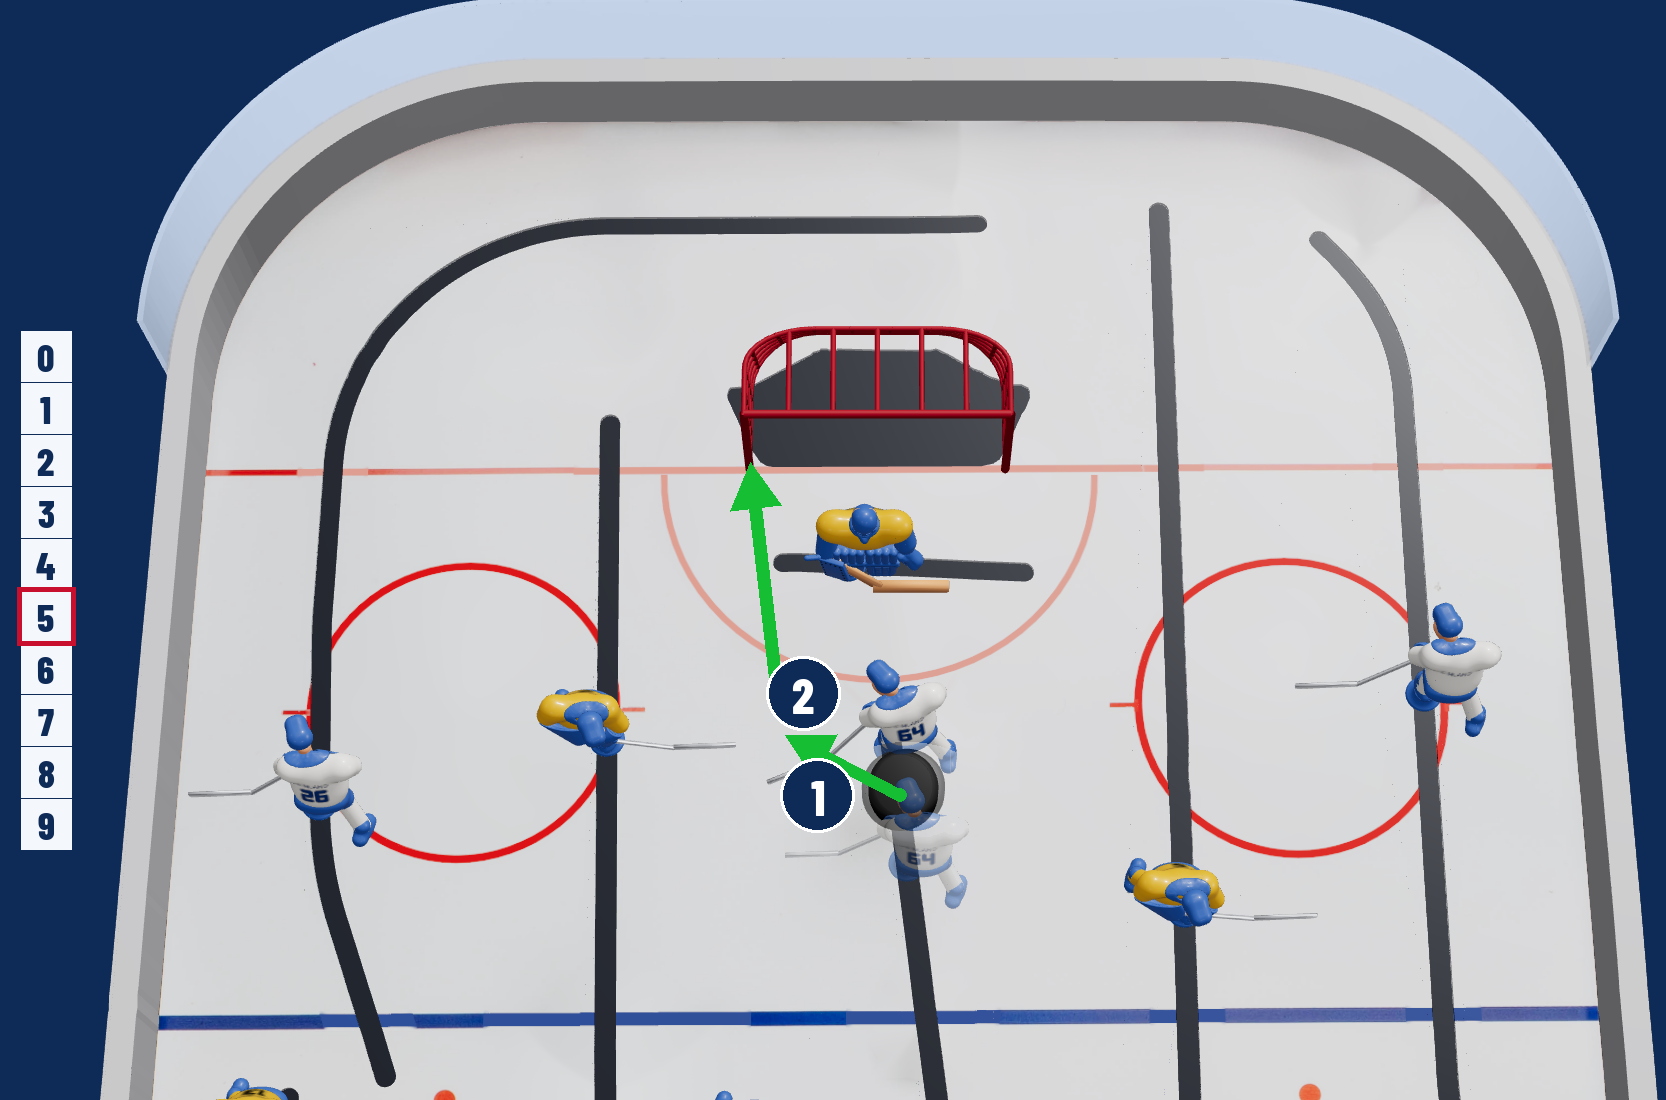
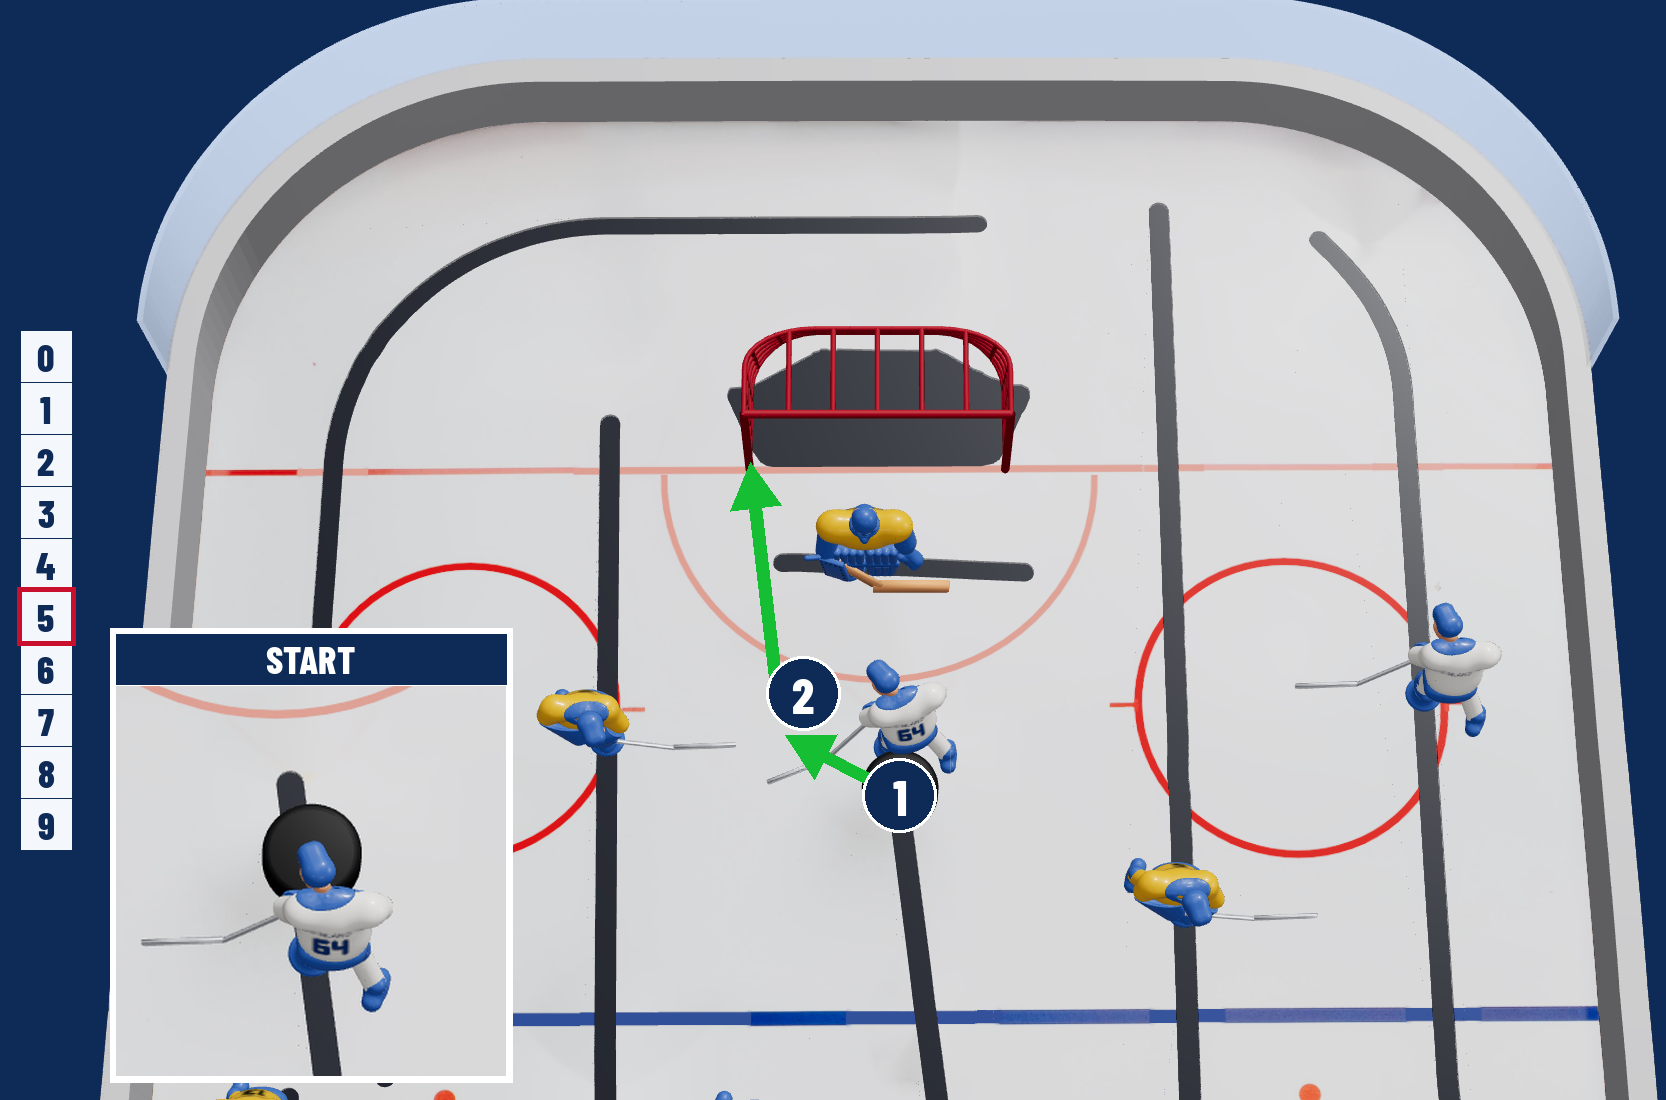
Move pictures: fakie start position as a START inset instead of a blended ghost
Claude-Session: https://claude.ai/code/session_01BNTiwfvDFK1dJGset6TA2u

Changed region(s): [[0.0624, 0.5564, 0.3121, 0.9891], [0.4682, 0.6491, 0.593, 0.8345]]

diff --git a/scripts/move-pictures/build.py b/scripts/move-pictures/build.py
@@ -374,16 +374,14 @@ def draw(spec, geo):
     W, H = base.width + MARGIN_L, base.height
     im = Image.new("RGB", (W, H), NAVY)
     im.paste(base, (MARGIN_L, 0))
-    if "ghost" in geo:
+    inset = None
+    if "ghost" in geo:  # the start position as a close-up inset (a blended ghost was hard to read, user 2026-10-14)
         gb = Image.open(OUT / f"{spec['id']}-ghost-base.png").convert("RGB")
         gx, gy = to_px(geo, geo["ghost"]["figure_mm"])
-        gpx = to_px(geo, geo["ghost"]["puck_mm"])
-        rad = 1.15 * max(math.dist((gx, gy), gpx), 1) + 40  # the figure and its puck, not the figure at the trick
-        mask = Image.new("L", gb.size, 0)
-        ImageDraw.Draw(mask).ellipse([gx - MARGIN_L - rad, gy - rad, gx - MARGIN_L + rad, gy + rad], fill=255)
-        diff = Image.eval(ImageChops.difference(gb, base).convert("L"), lambda q: 255 if q > 12 else 0)
-        mask = ImageChops.multiply(mask, diff).filter(ImageFilter.MaxFilter(3)).point(lambda q: int(q * 0.5))
-        im.paste(Image.composite(gb, base, mask), (MARGIN_L, 0))
+        px, py = to_px(geo, geo["ghost"]["puck_mm"])
+        cx, cy = (gx + px) / 2 - MARGIN_L, (gy + py) / 2 - 20
+        half = 150
+        inset = gb.crop((int(cx - half), int(cy - half), int(cx + half), int(cy + half))).resize((390, 390), Image.LANCZOS)
     d = ImageDraw.Draw(im)
     r = 34
     if "ghost" in geo:
@@ -394,8 +392,6 @@ def draw(spec, geo):
     marks = {k: np.array(p) for k, p in pts.items() if k.isdigit()}  # where each numbered circle goes
     # a set grip must stay visible: its circle steps to the side, away from the figure, and the arrow starts at the puck
     grips = {str(c["n"]) for c in spec.get("contacts", []) if "puck_local_mm" in c}
-    if "ghost" in geo:  # the start under the ghost stays visible too
-        grips.add(geo["ghost"]["to"])
     for k in grips:
         marks[k] = marks[k] + np.array([-(2 * r + 14), 0.0])
     for a in geo["arrows_mm"]:
@@ -413,6 +409,12 @@ def draw(spec, geo):
         arrow(d, P, 13, GREEN, 46, cut_s, cut_e)
     for k, p in marks.items():
         badge(d, p, k, r)
+    if inset is not None:
+        x0, y0, bw = MARGIN_L + 24, H - inset.height - 24, 6
+        d.rectangle([x0 - bw, y0 - 52 - bw, x0 + inset.width + bw, y0 + inset.height + bw], fill=(255, 255, 255))
+        im.paste(inset, (x0, y0))
+        d.rectangle([x0, y0 - 52, x0 + inset.width, y0 - 2], fill=NAVY)
+        d.text((x0 + inset.width / 2, y0 - 27), "START", font=ImageFont.truetype(FONT, 38), fill=(255, 255, 255), anchor="mm")
     level_scale(d, H, spec["level"])
     VAL.mkdir(parents=True, exist_ok=True)
     out = VAL / f"{spec['id']}.png"

diff --git a/docs/move-pictures.md b/docs/move-pictures.md
@@ -113,6 +113,7 @@ Six pictures redrawn after the user's comments on the review page:
 On the page the redone moves go back to "not reviewed" with the user's comment kept and a "Redrawn" note.
 - Start position of the fakie centre tricks (user's choice 2026-10-14, "ghost + dashed"): spec field `ghost` (figure,
   facing, puck in the start groove). `build.py` adds a second render job `<id>-ghost` with the figure at its start, and
-  `--draw` blends that figure in at 50 % around the start position, with a dashed grey arrow from the start puck to
-  contact 1 (drawn only when the start and the trick are apart). For the fakie centre tricks the ghost is the centre
+  `--draw` shows that start as a close-up inset marked START in the bottom-left corner (a first version blended a
+  50 % ghost into the picture; the user found it hard to read), with a dashed grey arrow from the start puck to contact 1
+  when the start and the trick are apart. For the fakie centre tricks the ghost is the centre
   right behind the centred puck, facing forward (ASSUMED); the solid figure is the centre turned into the trick.
